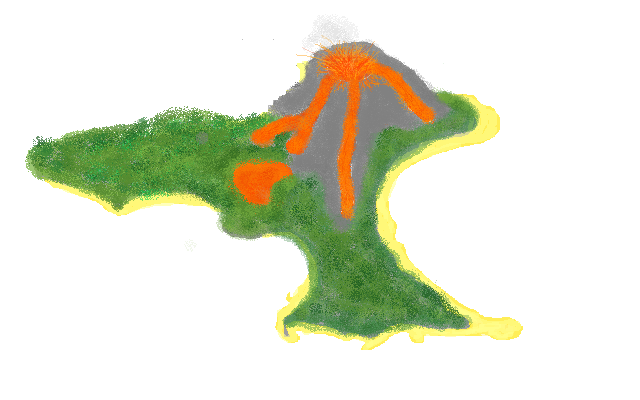
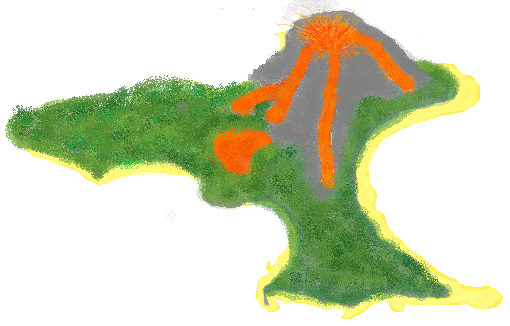
supr cupr funkcni jako blazen, roman nic nedela

diff --git a/main.py b/main.py
@@ -42,6 +42,8 @@ kotva_vetsi = pygame.transform.scale(kotva_obrazek, (kotva_obrazek.get_width() *
 kotva_dole = pygame.image.load("kotva_dole.png")
 kotva_dole_vetsi = pygame.transform.scale(kotva_dole, (kotva_dole.get_width() * 1.1, kotva_dole.get_height() * 1.1))
 basic_lod = pygame.image.load("basic_lod.png")
+pokrocila_lod = pygame.image.load("pokrocila_lod.png")
+profesionalni_lod = pygame.image.load("profesionalni_lod.png")
 
 #recty
 mapa_neotevrena_puvodni_rect = mapa_neotevrena_puvodni.get_rect(topleft=(OKNO_sirka - 150, 30))
@@ -51,7 +53,10 @@ kotva_rect = kotva_obrazek.get_rect(topleft=(OKNO_sirka - 140, 610))
 kotva_dole_rect = kotva_dole.get_rect(topleft=(OKNO_sirka - 140, 610))
 
 #fonty
-font = pygame.font.SysFont("Arial", 24)
+
+font = pygame.font.Font("pirat_font.ttf", 24)
+zlato_font = pygame.font.Font("pirat_font.ttf", 28)
+posatky_font = pygame.font.Font("pirat_font.ttf", 28)
 
 # Loď se otáčí podle směru.
 lod_surface = basic_lod
@@ -74,7 +79,8 @@ rozestup_ostrovu = 2000
 ostrov_spawn = [
     {"x": 700, "y": 700, "nazev": "lava_ostrov"},
     {"x": -2500, "y": -1500, "nazev": "shop_ostrov"},
-    {"x": -4000, "y": -3000, "nazev": "lava_ostrov"},
+    {"x": -4000, "y": -3000, "nazev": "cerv_ostrov"},
+    {"x": 3000, "y": -2000, "nazev": "magma_ostrov"},
 ]
 
 
@@ -86,16 +92,58 @@ vyber_ostrovu = [
     {
         "nazev": "shop_ostrov",
         "obrazek": pygame.image.load("shop_ostrov.png"),
+    },
+    {
+        "nazev": "cerv_ostrov",
+        "obrazek": pygame.image.load("cerv_ostrov.png"),
+    },
+    {
+        "nazev": "magma_ostrov",
+        "obrazek": pygame.image.load("magma_ostrov.png"),
     }
 ]
 
-#recty ostrovů
+#lod statistiky
 
+lod_informace = [
+    {
+        "nazev": "basic_lod",
+        "rychlost": 2,
+        "obrazek": basic_lod,
+        "maximalni_pocet_posatky": 5,
+        "maximalni_unosnost_zlata": 1000,
+        "cena": 0,
+        "pocet_posatky": 5,
+    },
+    {
+        "nazev": "pokrocila_lod",
+        "rychlost": 3,
+        "obrazek": pokrocila_lod,
+        "maximalni_pocet_posatky": 10,
+        "maximalni_unosnost_zlata": 5000,
+        "cena": 1000,
+        "pocet_posatky": 10,
+    },
+    {
+        "nazev": "profesionalni_lod",
+        "rychlost": 4,
+        "obrazek": profesionalni_lod,
+        "maximalni_pocet_posatky": 15,
+        "maximalni_unosnost_zlata": 10000,
+        "cena": 5000,
+        "pocet_posatky": 15,
+    },
+]
 
-
-
-
-
+aktualni_lod = lod_informace[0]
+lod_surface = aktualni_lod["obrazek"]
+aktualni_rychlost_lode = aktualni_lod["rychlost"]
+velikost_lode_x = lod_surface.get_width()
+velikost_lode_y = lod_surface.get_height()
+maximalni_unosnost_zlata = aktualni_lod["maximalni_unosnost_zlata"]
+maximalni_pocet_posatky = aktualni_lod["maximalni_pocet_posatky"]
+aktualni_zlato = 0
+aktualni_posatky = aktualni_lod["pocet_posatky"]
 
 
 
@@ -222,7 +270,10 @@ while hra:
             
             # Změní se barva elipsy podle kolize
             if vzdalenost < polomer_kolize + 50:
-                barva_elipsy = (255, 0, 0)  # Červená když je blízko
+                if nazev == "shop_ostrov":
+                    barva_elipsy = (0, 255, 0)  # Zelená u shopu když je blízko
+                else:
+                    barva_elipsy = (255, 0, 0)  # Červená u ostatních ostrovů když je blízko
             else:
                 barva_elipsy = (100, 150, 200)  # Modrá normálně
             
@@ -254,6 +305,10 @@ while hra:
         pygame.draw.circle(okno, (30, 30, 30), (stred_x, stred_y), 6)
         distance_text = font.render(f"Position: ({int(-pozice_lode_x)}, {int(-pozice_lode_y)})", True, (255, 255, 255))
         okno.blit(distance_text, (20, kompas_rect.bottom + 10))
+        zlato_text = zlato_font.render(f"Gold: {aktualni_zlato}/{maximalni_unosnost_zlata}", True, (255, 215, 0))
+        okno.blit(zlato_text, (20, 720))
+        posatky_text = posatky_font.render(f"Crew: {aktualni_posatky}/{maximalni_pocet_posatky}", True, (255, 255, 255))
+        okno.blit(posatky_text, (200, 720))
 
         if kotva:
             if kotva_rect.collidepoint(mys_pozice):
@@ -268,7 +323,69 @@ while hra:
     
 
     if mapa_otevrena:
-        okno.blit(mapa_background, (50, 50))
+        # Podklad mapy a její hranice
+        mapa_x_offset = 50
+        mapa_y_offset = 50
+        mapa_sirka = mapa_background.get_width()
+        mapa_vyska = mapa_background.get_height()
+        mapa_inset = 100
+        mapa_rect = pygame.Rect(
+            mapa_x_offset + mapa_inset,
+            mapa_y_offset + mapa_inset,
+            mapa_sirka - mapa_inset * 2,
+            mapa_vyska - mapa_inset * 2,
+        )
+        stred_mapa_x = mapa_rect.centerx
+        stred_mapa_y = mapa_rect.centery
+        
+        okno.blit(mapa_background, (mapa_x_offset, mapa_y_offset))
+        
+        # Modrá plocha je přímo na obrázku mapy, ne pod ním
+        pygame.draw.rect(okno, (13, 55, 102), mapa_rect)
+        
+        # Všechny prvky mapy kreslit jen uvnitř mapového panelu
+        predchozi_clip = okno.get_clip()
+        okno.set_clip(mapa_rect)
+        
+        # Škálování - mapa je 5000x5000 světových jednotek
+        skala_x = mapa_rect.width / MAPA_SIRKA
+        skala_y = mapa_rect.height / MAPA_VYSKA
+        
+        # Vykreslení ostrovů na mapě
+        for ostrov in ostrov_spawn:
+            nazev = ostrov["nazev"]
+            data_ostrovu = next((o for o in vyber_ostrovu if o["nazev"] == nazev), None)
+            if data_ostrovu:
+                # Ostrovy se pohybují podle pozice lodě, hráč zůstává uprostřed mapy
+                mapa_ostrov_x = stred_mapa_x + (ostrov["x"] - pozice_lode_x) * skala_x
+                mapa_ostrov_y = stred_mapa_y + (ostrov["y"] - pozice_lode_y) * skala_y
+                
+                # Zvětšený obraz ostrova na mapě (30% původní velikosti)
+                obrazek_ostrovu_mala = data_ostrovu["obrazek"]
+                sirka_ostrova = int(obrazek_ostrovu_mala.get_width() * 0.3)
+                vyska_ostrova = int(obrazek_ostrovu_mala.get_height() * 0.3)
+                
+                if sirka_ostrova > 0 and vyska_ostrova > 0:
+                    obrazek_ostrovu_scaled = pygame.transform.scale(obrazek_ostrovu_mala, (sirka_ostrova, vyska_ostrova))
+                    okno.blit(obrazek_ostrovu_scaled, (mapa_ostrov_x - sirka_ostrova // 2, mapa_ostrov_y - vyska_ostrova // 2))
+        
+        # Vykreslení šipky hráče v centru mapy
+        # Šipka ukazuje stejný směr jako loď v herním okně
+        sirka_sipky = 15
+        vyska_sipky = 25
+        radiany = math.radians(uhel_kompasu)
+        cos_a = math.cos(radiany)
+        sin_a = math.sin(radiany)
+        
+        bod1 = (stred_mapa_x + sin_a * vyska_sipky, stred_mapa_y - cos_a * vyska_sipky)  # Špička
+        bod2 = (stred_mapa_x - sin_a * 5 - cos_a * sirka_sipky / 2, stred_mapa_y + cos_a * 5 - sin_a * sirka_sipky / 2)
+        bod3 = (stred_mapa_x - sin_a * 5 + cos_a * sirka_sipky / 2, stred_mapa_y + cos_a * 5 + sin_a * sirka_sipky / 2)
+        
+        pygame.draw.polygon(okno, (220, 30, 30), [bod1, bod2, bod3])  # Červená šipka
+        pygame.draw.circle(okno, (255, 255, 255), (int(stred_mapa_x), int(stred_mapa_y)), 3)  # Bílý střed
+        
+        okno.set_clip(predchozi_clip)
+        
         okno.blit(mapa_exit, (OKNO_sirka - 180, 630))
         if mapa_exit_rect.collidepoint(mys_pozice):
             okno.blit(mapa_exit_vetsi, (OKNO_sirka - 185, 625))